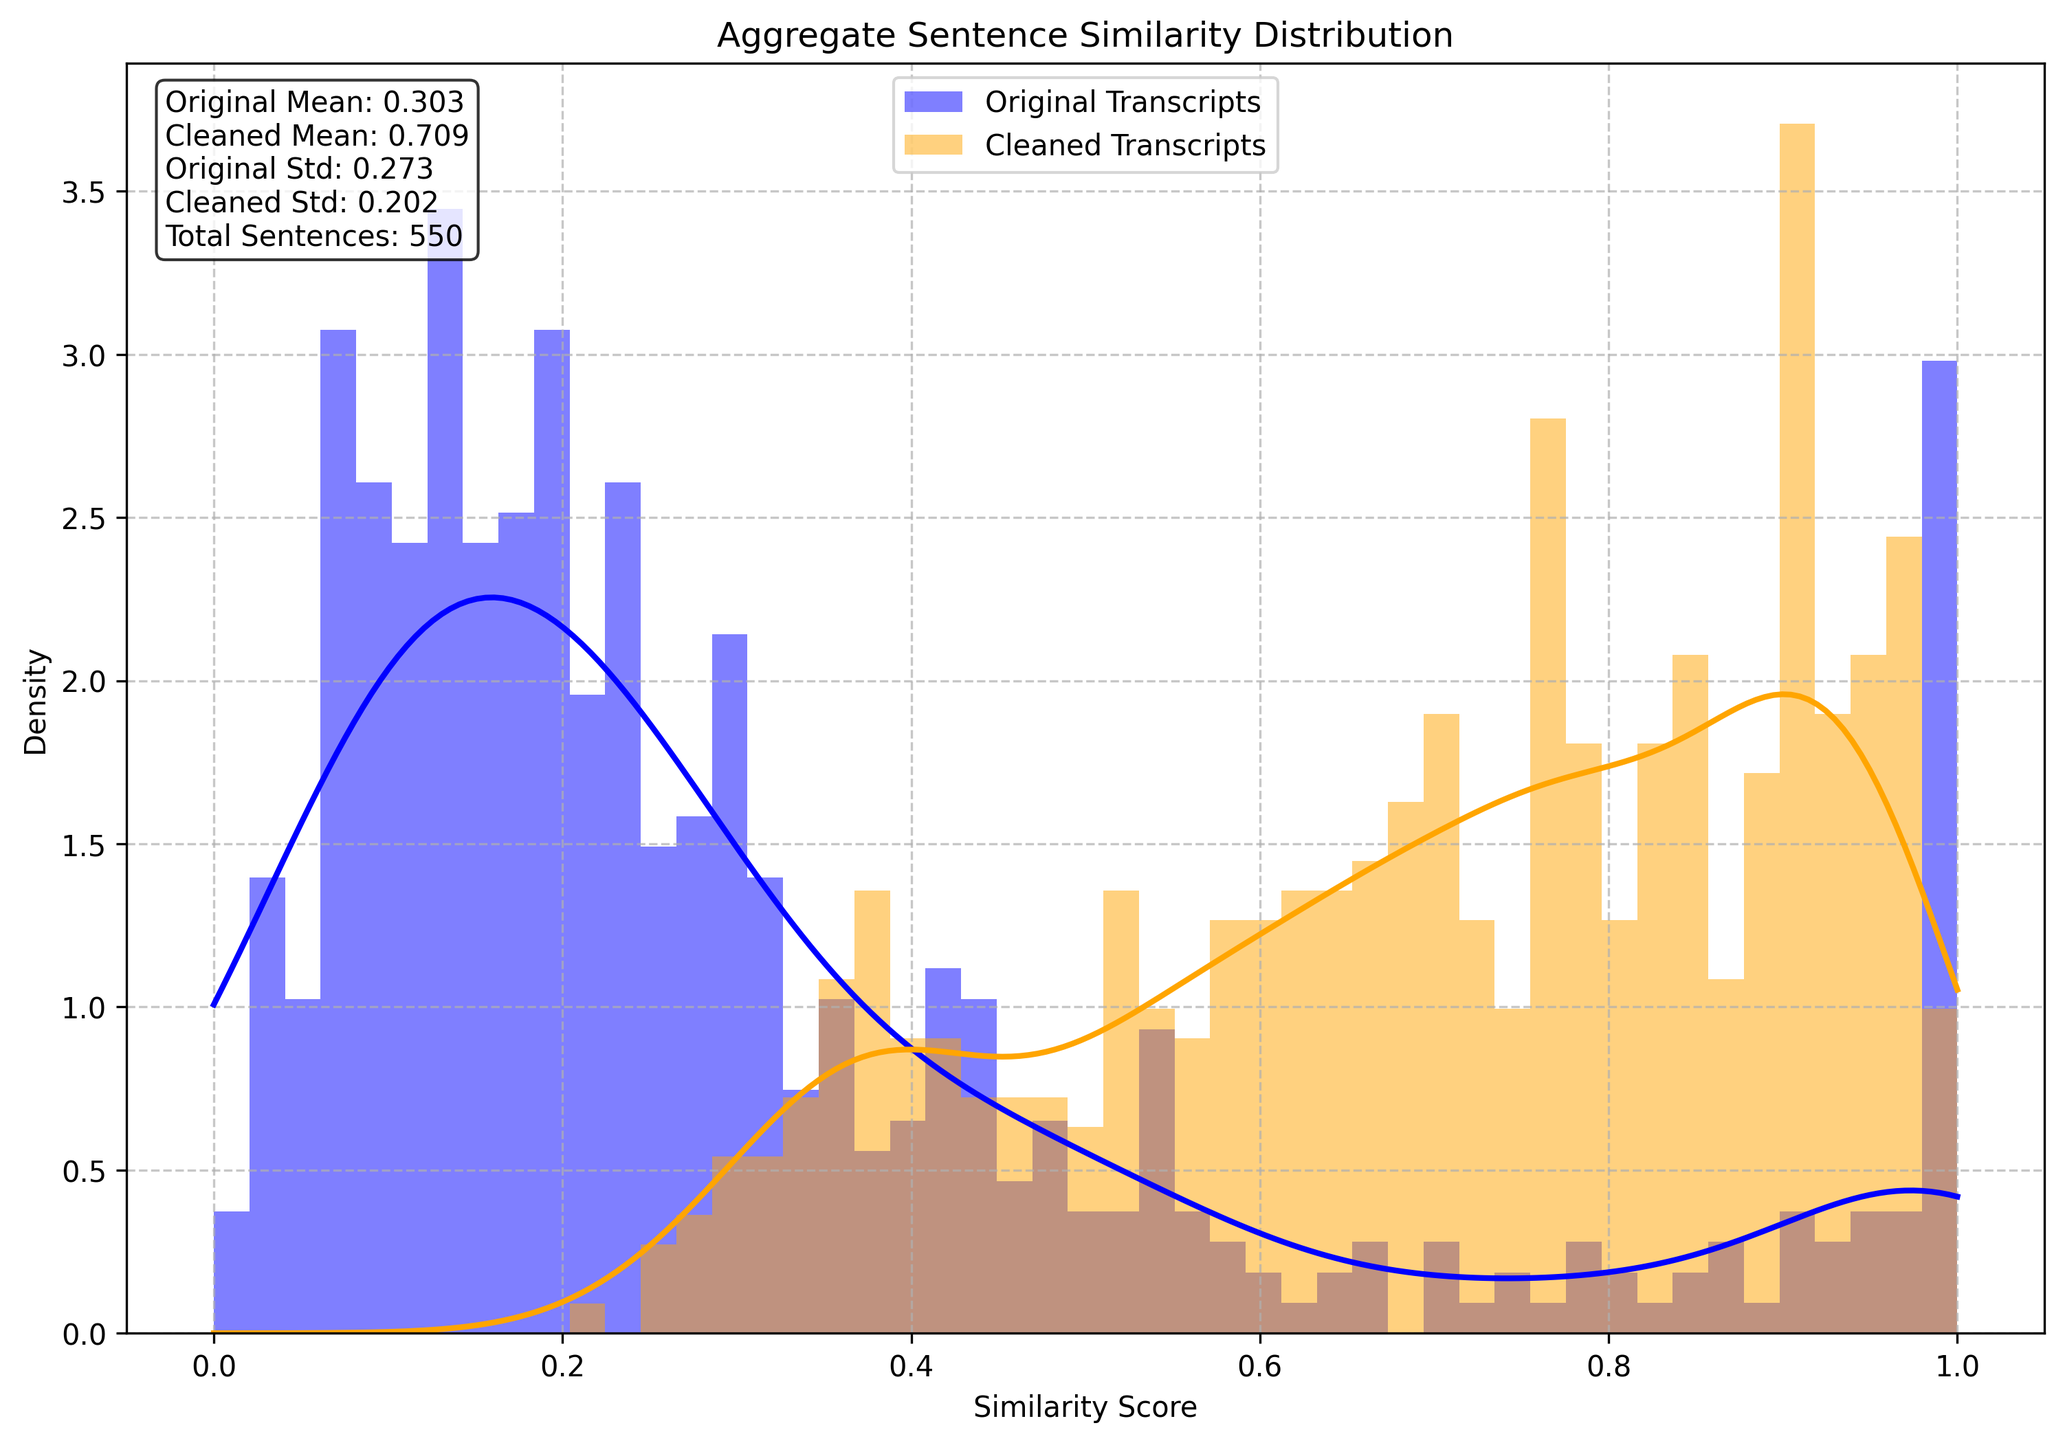
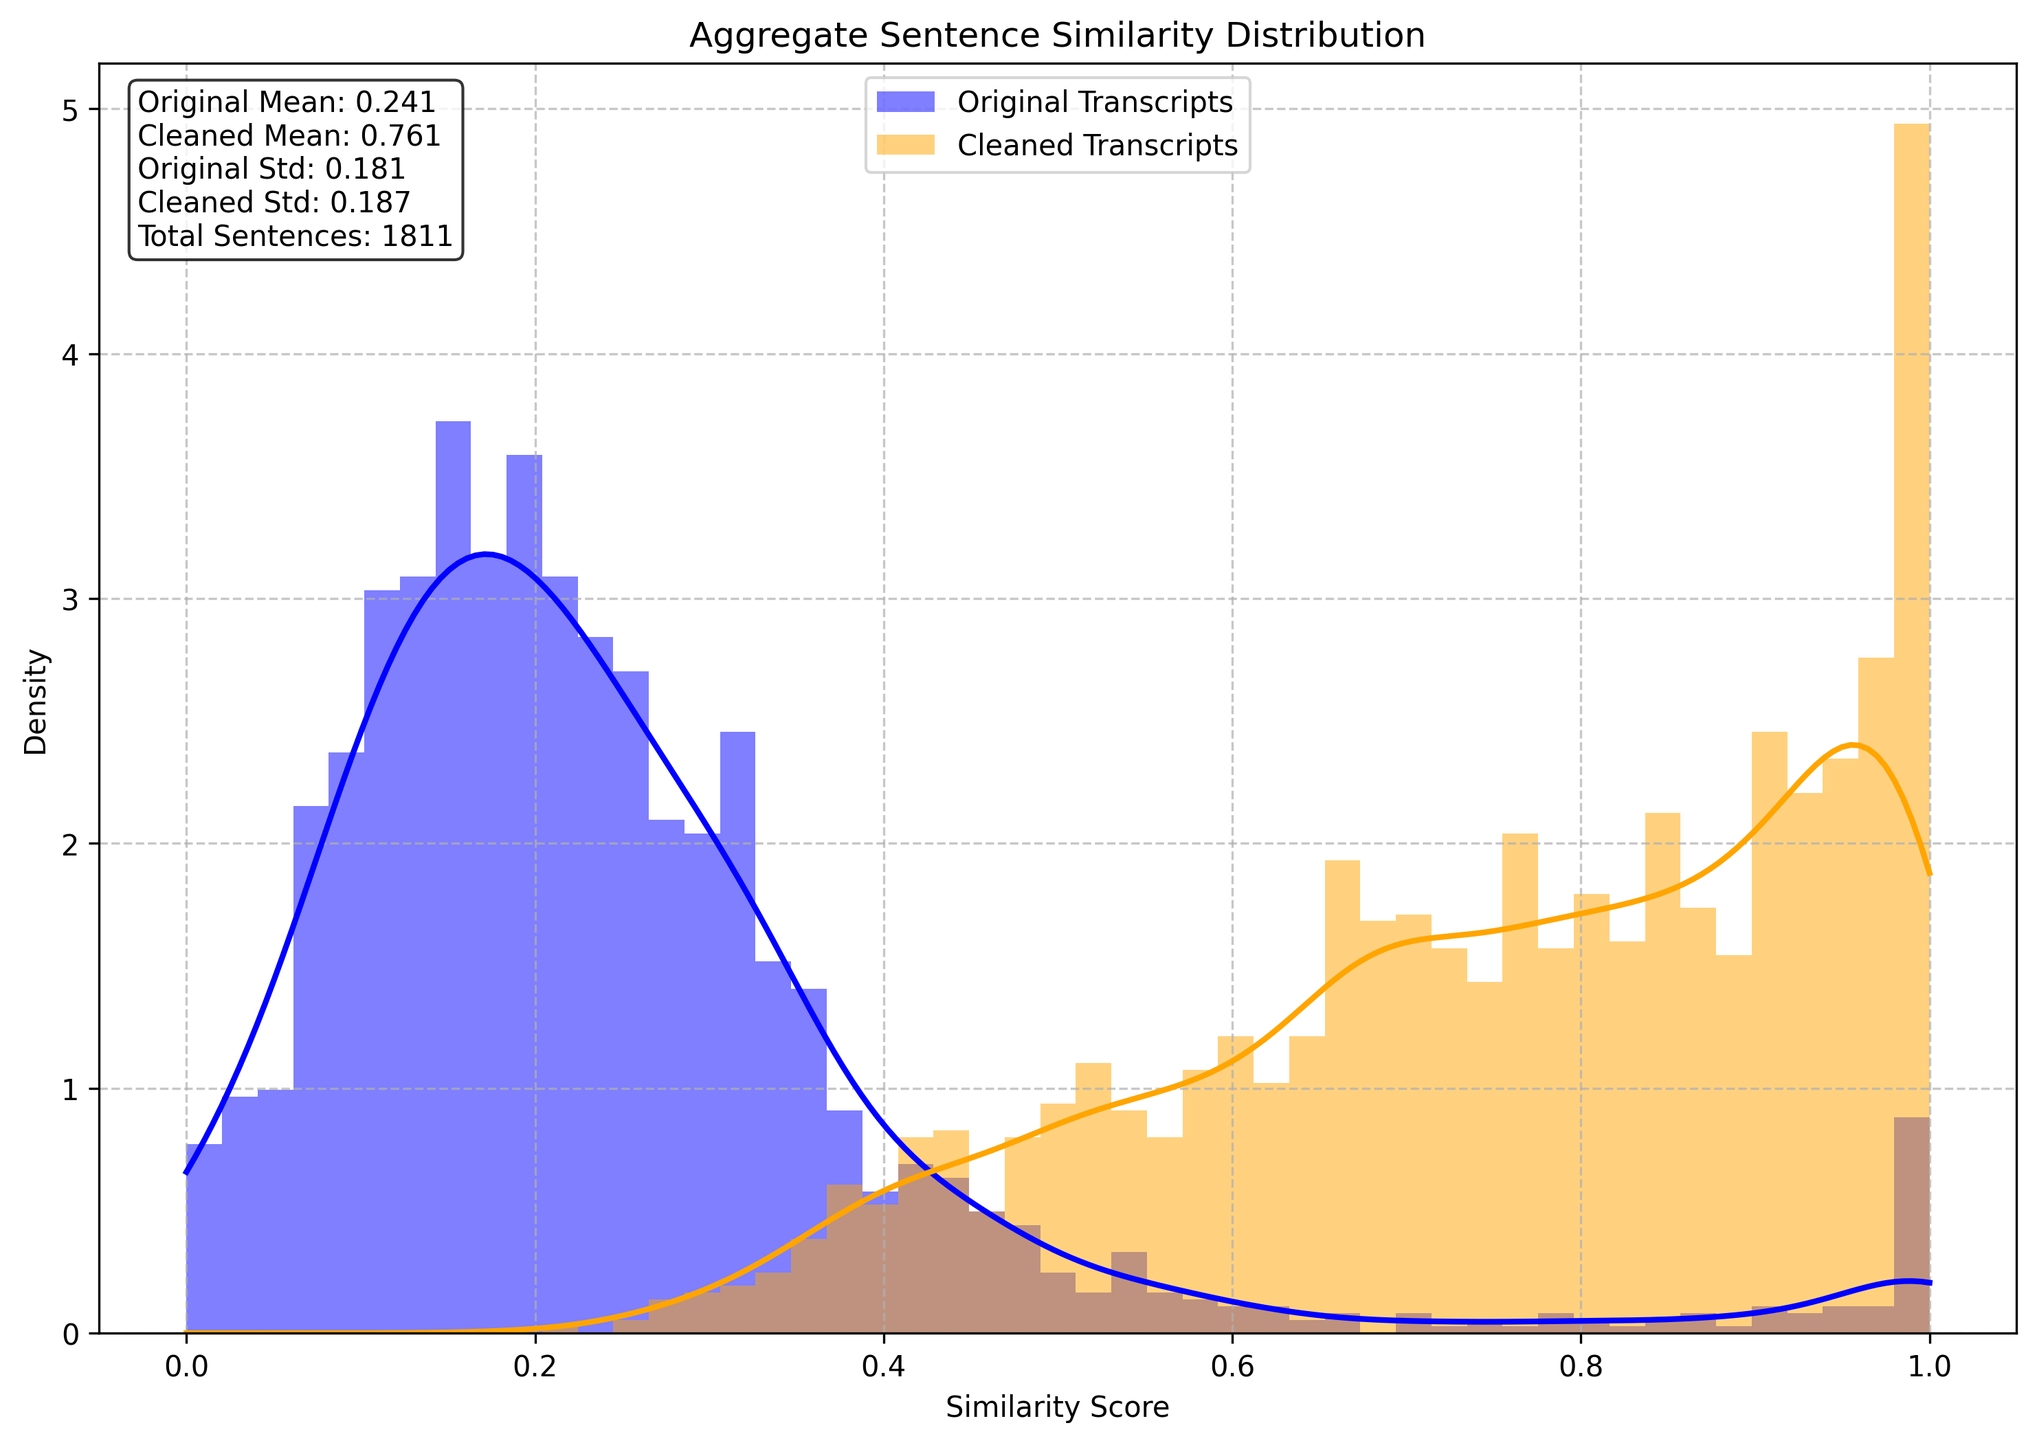
Added batch processing

diff --git a/ytsummary/cleaner.py b/ytsummary/cleaner.py
@@ -25,7 +25,7 @@ class PromptTemplates:
         2. The logical flow of ideas
         3. Any key context that would help understand individual segments
         
-        Transcript:
+        ** Transcript: **
         {transcript}
         """
         
@@ -68,17 +68,22 @@ class PromptTemplates:
         }
 
 class TranscriptCleaner:
-    def __init__(self, chunk_size: int = 1000):
+    def __init__(self, chunk_size: int = 1000, batch_size: int = 3):
         """
         Initialize the transcript cleaner.
         
         Args:
             chunk_size: Approximate number of characters per chunk
+            batch_size: Number of chunks to process in parallel
         """
         self.chunk_size = chunk_size
-        
+        self.batch_size = batch_size
+
     def _create_chunks(self, transcript: str) -> List[str]:
         """Split transcript into chunks of approximately equal size."""
+        # Normalize line breaks and whitespace first
+        transcript = ' '.join(transcript.split())
+        
         words = transcript.split()
         chunks = []
         current_chunk = []
@@ -99,7 +104,7 @@ class TranscriptCleaner:
             
         return chunks
 
-    async def _get_summary(self, transcript: str) -> str:
+    async def _get_summary(self, transcript: str) -> Tuple[str, int]:
         """Generate a summary of the entire transcript."""
         try:
             prompt_config = PromptTemplates.get_summary_prompt(transcript)
@@ -120,11 +125,14 @@ class TranscriptCleaner:
             
         except Exception as e:
             print(f"Error generating summary: {str(e)}")
-            return ""
+            return "", 0
 
-    async def _clean_chunk(self, chunk: str, summary: str, prev_chunks: Optional[List[str]] = None) -> str:
+    async def _clean_chunk(self, chunk: str, summary: str, prev_chunks: Optional[List[str]] = None) -> Tuple[str, int]:
         """Clean a single chunk using summary and previous chunks as context."""
         try:
+            # Normalize chunk text
+            chunk = ' '.join(chunk.split())
+            
             prompt_config = PromptTemplates.get_cleaning_prompt(
                 chunk=chunk,
                 summary=summary,
@@ -141,54 +149,97 @@ class TranscriptCleaner:
             )
             
             cleaned_text = response.choices[0].message.content.strip()
-            total_tokens_cleaning = response.usage.total_tokens
+            cleaned_text = ' '.join(cleaned_text.split())  # Normalize whitespace
+            total_tokens = response.usage.total_tokens
+            
             print(f"\n========== Original Chunk ==========\n{chunk}")
             print(f"\n========== Cleaned Chunk ==========\n{cleaned_text}\n")
-            return cleaned_text, total_tokens_cleaning
+            return cleaned_text, total_tokens
             
         except Exception as e:
             print(f"Error cleaning chunk: {str(e)}")
-            return chunk
+            return chunk, 0
 
-    async def clean_transcript(self, transcript: str) -> str:
-        """
-        Clean transcript using a hierarchical approach with summary and sequential context.
-        
-        Args:
-            transcript: The transcript to clean
+    async def _process_chunk_batch(self, chunks: List[str], summary: str, 
+                                start_idx: int, prev_cleaned: List[str]) -> List[Tuple[str, int]]:
+        """Process a batch of chunks in parallel while maintaining context."""
+        async def process_chunk(chunk: str, position: int, completed_results: List[Tuple[str, int]]):
+            # Get context from previous batch and completed chunks
+            context_chunks = []
             
-        Returns:
-            str: The cleaned transcript
-        """
+            # Add context from previous batch
+            if prev_cleaned:
+                context_chunks.extend(prev_cleaned[-2:])
+                
+            # Add context from completed chunks in current batch
+            if position > 0:
+                context_chunks.extend([result[0] for result in completed_results[:position][-2:]])
+                
+            context_chunks = context_chunks[-2:] if context_chunks else None
+            return await self._clean_chunk(chunk, summary, context_chunks)
+        
+        # Process chunks with semaphore to control concurrency
+        semaphore = asyncio.Semaphore(self.batch_size)
+        async def bounded_process(chunk: str, position: int, completed_results: List[Tuple[str, int]]):
+            async with semaphore:
+                return await process_chunk(chunk, position, completed_results)
+        
+        # Track results while maintaining order
+        results = []
+        tasks = []
+        
+        for i, chunk in enumerate(chunks):
+            task = bounded_process(chunk, i, results)
+            tasks.append(task)
+        
+        # Wait for all chunks in batch to complete
+        completed = await asyncio.gather(*tasks)
+        return completed
+
+    async def clean_transcript(self, transcript: str) -> Tuple[str, int]:
         if not transcript:
-            return ""
+            return "", 0
             
         try:
-            # Get overall summary first
-            summary, total_tokens_summary = await self._get_summary(transcript)
-            total_tokens = total_tokens_summary
-            if not summary:
-                print("Warning: Failed to generate summary, proceeding with limited context")
-                
-            # Split into chunks
+            transcript = ' '.join(transcript.split())
+            summary, total_tokens = await self._get_summary(transcript)
             chunks = self._create_chunks(transcript)
-            if not chunks:
-                return transcript
-                
-            # Clean chunks sequentially, maintaining context
-            cleaned_chunks = []
-            for i, chunk in enumerate(chunks):
-                # Get previous chunks for context (up to 2)
-                prev_chunks = cleaned_chunks[-2:] if cleaned_chunks else None
-                
-                # Clean current chunk
-                cleaned_chunk, total_tokens_cleaning = await self._clean_chunk(chunk, summary, prev_chunks)
-                cleaned_chunks.append(cleaned_chunk)
-                total_tokens += total_tokens_cleaning
-
-            # Reassemble transcript
-            return ' '.join(cleaned_chunks), total_tokens
             
+            if not chunks:
+                return transcript, 0
+                
+            cleaned_chunks = []
+            batch_number = 1
+            total_batches = (len(chunks) + self.batch_size - 1) // self.batch_size
+            
+            for i in range(0, len(chunks), self.batch_size):
+                print(f"\nProcessing batch {batch_number}/{total_batches}")
+                batch = chunks[i:i + self.batch_size]
+                prev_cleaned = cleaned_chunks[-2:] if cleaned_chunks else None
+                
+                try:
+                    results = await self._process_chunk_batch(batch, summary, i, prev_cleaned)
+                    
+                    # Extract results while checking for failures
+                    for j, (cleaned_text, batch_tokens) in enumerate(results):
+                        if cleaned_text and batch_tokens > 0:
+                            cleaned_chunks.append(cleaned_text.strip())
+                            total_tokens += batch_tokens
+                        else:
+                            print(f"Warning: Chunk {i + j} failed to process, using original")
+                            cleaned_chunks.append(batch[j].strip())
+                            
+                except Exception as e:
+                    print(f"Error processing batch {batch_number}: {str(e)}")
+                    # On batch failure, add original chunks to maintain sequence
+                    cleaned_chunks.extend([chunk.strip() for chunk in batch])
+                    
+                batch_number += 1
+                
+            cleaned_transcript = ' '.join(cleaned_chunks).strip()
+            return cleaned_transcript, total_tokens
+                
         except Exception as e:
             print(f"Error in transcript cleaning: {str(e)}")
-            return transcript
+            return transcript, 0
+                

diff --git a/ytsummary/yt_transcriber.py b/ytsummary/yt_transcriber.py
@@ -87,9 +87,18 @@ class YouTubeTranscriber:
     def _load_model(self):
         """Load the Whisper model if not already loaded."""
         if self.model is None:
+            # Set CUDA device and optimization settings
             device = torch.device("cuda" if torch.cuda.is_available() else "cpu")
+            if torch.cuda.is_available():
+                torch.backends.cudnn.benchmark = True
+                torch.set_float32_matmul_precision('high')
+                print(f"Using GPU: {torch.cuda.get_device_name()}")
+                print(f"CUDA Version: {torch.version.cuda}")
+            else:
+                print("CUDA not available, using CPU")
+                
             self.model = whisper.load_model("medium", device=device)
-
+            
     def _save_transcription(self, result: TranscriptionResult):
         """Save transcription result to JSON file."""
         output_path = self._get_transcription_path(result.video_id)
@@ -103,6 +112,10 @@ class YouTubeTranscriber:
         """
         results = {}
 
+        # Load model at start to avoid reloading
+        if self.model is None:
+            self._load_model()
+
         for url in video_urls:
             video_id = self._extract_video_id(url)
             if not video_id:
@@ -112,7 +125,6 @@ class YouTubeTranscriber:
             # Check if transcription exists before any processing
             if self._transcription_exists(video_id):
                 print(f"Valid transcription already exists for video {video_id}, skipping...")
-                # Load existing transcription
                 try:
                     with open(self._get_transcription_path(video_id), 'r', encoding='utf-8') as f:
                         data = json.load(f)
@@ -134,13 +146,15 @@ class YouTubeTranscriber:
                 continue
 
             try:
-                # Load model only when needed
-                if self.model is None:
-                    self._load_model()
-                
-                # Transcribe
+                # Transcribe with optimized settings
                 print(f"Transcribing {video_id}...")
-                result = self.model.transcribe(audio_path)
+                result = self.model.transcribe(
+                    audio_path,
+                    fp16=torch.cuda.is_available(),  # Use half-precision if GPU available
+                    language='en',  # Specify language for better performance
+                    beam_size=5,    # Increase beam size for better accuracy
+                    best_of=5       # Number of candidates to consider
+                )
                 
                 # Final check before saving
                 if self._transcription_exists(video_id):
@@ -161,6 +175,10 @@ class YouTubeTranscriber:
             except Exception as e:
                 print(f"Error transcribing video {video_id}: {str(e)}")
                 continue
+                
+            # Clear CUDA cache after each video
+            if torch.cuda.is_available():
+                torch.cuda.empty_cache()
 
         return results
 

diff --git a/run.py b/run.py
@@ -37,9 +37,10 @@ class Pipeline:
             if not result.get("error"):
                 video_id = result["video_id"]
                 try:
-                    with open(f"./data/transcriptions/{video_id}.json", 'r') as f:
+                    # Use utf-8 encoding for reading JSON files
+                    with open(f"./data/transcriptions/{video_id}.json", 'r', encoding='utf-8') as f:
                         whisper_data = json.load(f)
-                    with open(f"./data/summary_transcripts/{video_id}.json", 'r') as f:
+                    with open(f"./data/summary_transcripts/{video_id}.json", 'r', encoding='utf-8') as f:
                         summary_data = json.load(f)
                         
                     # Get similarities
@@ -57,7 +58,13 @@ class Pipeline:
                     
                 except Exception as e:
                     print(f"Error processing {video_id} for aggregate plot: {str(e)}")
+                    print(f"Skipping video {video_id} in aggregate analysis")
+                    continue
         
+        if not orig_similarities or not cleaned_similarities:
+            print("No valid similarities found for aggregate plot")
+            return
+            
         # Create plot
         plt.figure(figsize=(12, 8))
         
@@ -152,7 +159,9 @@ async def main():
     video_urls = [
         "https://www.youtube.com/watch?v=sNa_uiqSlJo",
         "https://www.youtube.com/watch?v=x9Ekl9Izd38",
-        "https://www.youtube.com/watch?v=sGUjmyfof4Q"
+        "https://www.youtube.com/watch?v=sGUjmyfof4Q",
+        "https://www.youtube.com/watch?v=CSE77wAdDLg",
+        "https://www.youtube.com/watch?v=w9WE1aOPjHc"
     ]
     
     pipeline = Pipeline()

diff --git a/ytsummary/yt_summary.py b/ytsummary/yt_summary.py
@@ -44,11 +44,12 @@ class YouTubeProcessor:
             output_path = self._get_summary_path(result["video_id"])
             try:
                 youtube_transcript = result["transcript"].replace("\n", " ").strip()
+                cleaned_transcript = result["cleaned_transcript"].replace("...", " ").strip()
                 with open(output_path, 'w', encoding='utf-8') as f:
                     json.dump({
                         "video_id": result["video_id"],
                         "youtube_transcript": youtube_transcript,
-                        "cleaned_transcript": result["cleaned_transcript"],
+                        "cleaned_transcript": cleaned_transcript,
                         "success": result["success"],
                         "total_tokens": result["total_tokens"]
                     }, f, indent=2, ensure_ascii=False)

diff --git a/README.md b/README.md
@@ -7,27 +7,38 @@ A Python tool that improves YouTube's auto-generated transcripts using DeepSeek 
 ### Aggregate Similarity Distribution
 ![Aggregate Similarity Distribution](plots/aggregate_similarity_distribution.png)
 
-This plot shows the distribution of sentence-level similarities between Whisper and YouTube transcripts. The blue line represents the original YouTube transcripts (mean: 0.303), while the orange line represents the cleaned transcripts (mean: 0.709). Higher similarity scores indicate better alignment with the Whisper transcription. The average improvement is 29.67% with a total of 80833 tokens used over n=3 videos.
+This plot shows the distribution of sentence-level similarities between Whisper and YouTube transcripts. The blue line represents the original YouTube transcripts (mean: 0.241), while the orange line represents the cleaned transcripts (mean: 0.761). Higher similarity scores indicate better alignment with the Whisper transcription. The average improvement is 39.99% for n=5.video.
 
 ### Individual Analysis
 Analysis for video sGUjmyfof4Q:
-Original similarity: 17.64%
-Cleaned similarity: 65.26%
-Improvement: 47.61%
-Total tokens used: 27018
+- Original similarity: 17.64%
+- Cleaned similarity: 65.26%
+- Improvement: 47.61%
+- Total tokens used: 27018
 
-Analysis for video sNa_uiqSlJo:
-Original similarity: 25.42%
-Cleaned similarity: 81.78%
-Improvement: 56.35%
-Total tokens used: 38903
+- Analysis for video sNa_uiqSlJo:
+- Original similarity: 25.42%
+- Cleaned similarity: 81.78%
+- Improvement: 56.35%
+- Total tokens used: 38903
 
+- Analysis for video x9Ekl9Izd38:
+- Original similarity: 86.81%
+- Cleaned similarity: 71.85%
+- Improvement: -14.96%
+- Total tokens used: 14912
 
-Analysis for video x9Ekl9Izd38:
-Original similarity: 86.81%
-Cleaned similarity: 71.85%
-Improvement: -14.96%
-Total tokens used: 14912
+Analysis for video w9WE1aOPjHc:
+- Original similarity: 22.47%
+- Cleaned similarity: 81.25%
+- Improvement: 58.78%
+- Total tokens used: 136026
+
+Analysis for video CSE77wAdDLg:
+- Original similarity: 19.68%
+- Cleaned similarity: 71.83%
+- Improvement: 52.15%
+- Total tokens used: 41579
 
 Notes:
 - Whisper transcripts are used as a base line for comparison.
